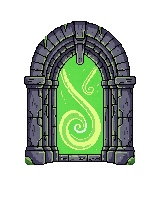
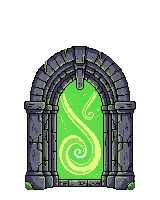
refinement of design changes and added image of myself

diff --git a/static/css/style.css b/static/css/style.css
@@ -145,8 +145,14 @@ body {
    only the ground itself reads as receding in 3D (HD-2D style). */
 .floor-surface {
   position: absolute;
-  left: 0;
-  right: 0;
+  /* Overshoot on all sides: rotateX + perspective make a plane converge
+     toward the perspective-origin the further back a row sits, so a plain
+     0/100% box goes visually narrower than the room near the top — the
+     exact depth the portals' floor-overflow sits at. Without horizontal
+     overshoot too, the outer portals fall past the tilted floor's real
+     edge into the bare room background. */
+  left: -25%;
+  right: -25%;
   top: -25%;
   height: 150%;
   background-image: url('../images/cave/floor-tile.png');
@@ -193,10 +199,14 @@ body {
 /* Angled side walls: a trapezoid clipped from a plain texture strip fakes
    perspective (wide/near at the bottom, narrow/far at the top) without any
    real 3D transform, so it lines up with the floor's own vanishing point. */
+/* Confined to the wall band only (matches .back-wall's height) — it must
+   NEVER extend into the floor's y-range, or it paints over the portals'
+   floor-overflow/glow at the room's left/right edges with wall texture
+   instead of floor. */
 .side-wall {
   position: absolute;
   top: 0;
-  bottom: 0;
+  height: 40%;
   width: 6%;
   background-image: url('../images/cave/wall-tile.png');
   background-size: 34px 34px;
@@ -211,7 +221,7 @@ body {
 
 .side-wall--left {
   left: 0;
-  clip-path: polygon(0 0, 100% 34%, 100% 100%, 0 100%);
+  clip-path: polygon(0 0, 100% 55%, 100% 100%, 0 100%);
 }
 
 .side-wall--left::after {
@@ -220,7 +230,7 @@ body {
 
 .side-wall--right {
   right: 0;
-  clip-path: polygon(0 34%, 100% 0, 100% 100%, 0 100%);
+  clip-path: polygon(0 55%, 100% 0, 100% 100%, 0 100%);
 }
 
 .side-wall--right::after {
@@ -346,17 +356,11 @@ body {
   height: 45%;
   transform: translateX(-50%);
   background: radial-gradient(ellipse, var(--accent, var(--accent-fallback)) 0%, transparent 72%);
-  opacity: 0.55;
+  opacity: 0.5;
   mix-blend-mode: screen;
   filter: blur(3px);
   pointer-events: none;
   z-index: -1;
-  animation: ground-glow-pulse 3s ease-in-out infinite;
-}
-
-@keyframes ground-glow-pulse {
-  0%, 100% { opacity: 0.4; }
-  50% { opacity: 0.65; }
 }
 
 .portal-arch {
@@ -528,6 +532,17 @@ body {
   text-align: center;
 }
 
+.room-avatar {
+  display: block;
+  width: clamp(96px, 16vw, 140px);
+  height: clamp(96px, 16vw, 140px);
+  margin: 0 auto 1rem;
+  border-radius: 50%;
+  object-fit: cover;
+  border: 3px solid var(--accent, var(--accent-fallback));
+  box-shadow: 0 0 0 4px var(--mortar), 0 0 24px 2px var(--accent, var(--accent-fallback));
+}
+
 .room-period {
   color: var(--text-dim);
   font-size: 0.95rem;
@@ -636,6 +651,5 @@ body {
 @media (prefers-reduced-motion: reduce) {
   .room, .vignette, .dungeon-frame { transition-duration: 0.2s !important; }
   .dungeon--transitioning .dungeon-frame { transform: none; filter: none; }
-  .portal, .portal::before { animation: none !important; }
   .player--walking .player-sprite { animation: none !important; }
 }

diff --git a/content/frames.py b/content/frames.py
@@ -123,7 +123,7 @@ FRAMES = [
     },
     {
         "id": "frame-5",
-        "image": "",
+        "image": "static/images/profile.jpg",
         "company": "About Me",
         "role": "",
         "period": "",
